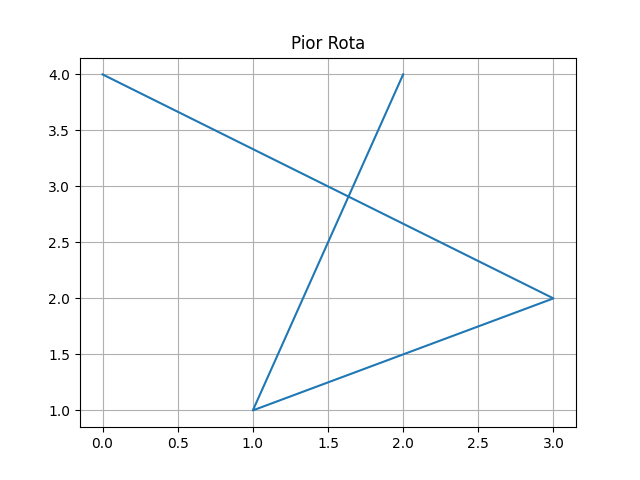
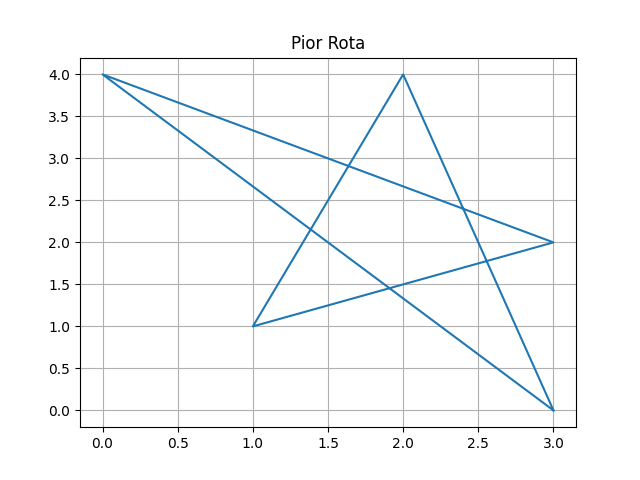
fix grafico

diff --git a/plotarGrafico.py b/plotarGrafico.py
@@ -6,9 +6,10 @@ dirPosicoes = main.dirPosicoes
 results = main.results
 
 def plotarGrafico():
+       setPosicaoGrafico("R", dirPosicoes)
        for i in results.split():
               setPosicaoGrafico(i, dirPosicoes)
-
+       setPosicaoGrafico("R", dirPosicoes)
 def setPosicaoGrafico(i, dirPosicoes):
        x.append(dirPosicoes[i][0])
        y.append(dirPosicoes[i][1])

diff --git a/main.py b/main.py
@@ -6,7 +6,7 @@
 #Arquivo de entrada é dado através de um arquivo que pode ser colocado os valores
 
 import functions
-#import plotarGrafico
+import plotarGrafico
 
 matriz, listaPosicoes = [], []
 dirPosicoes = {}
